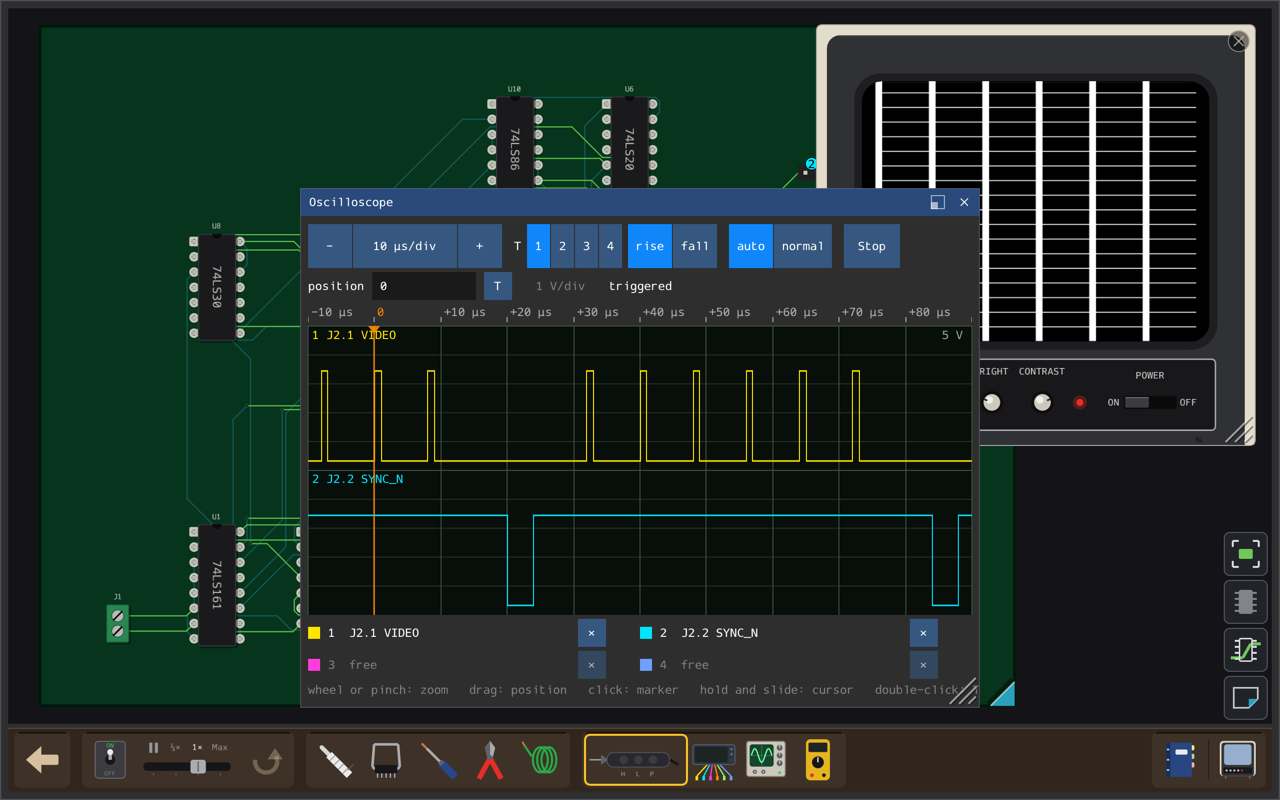
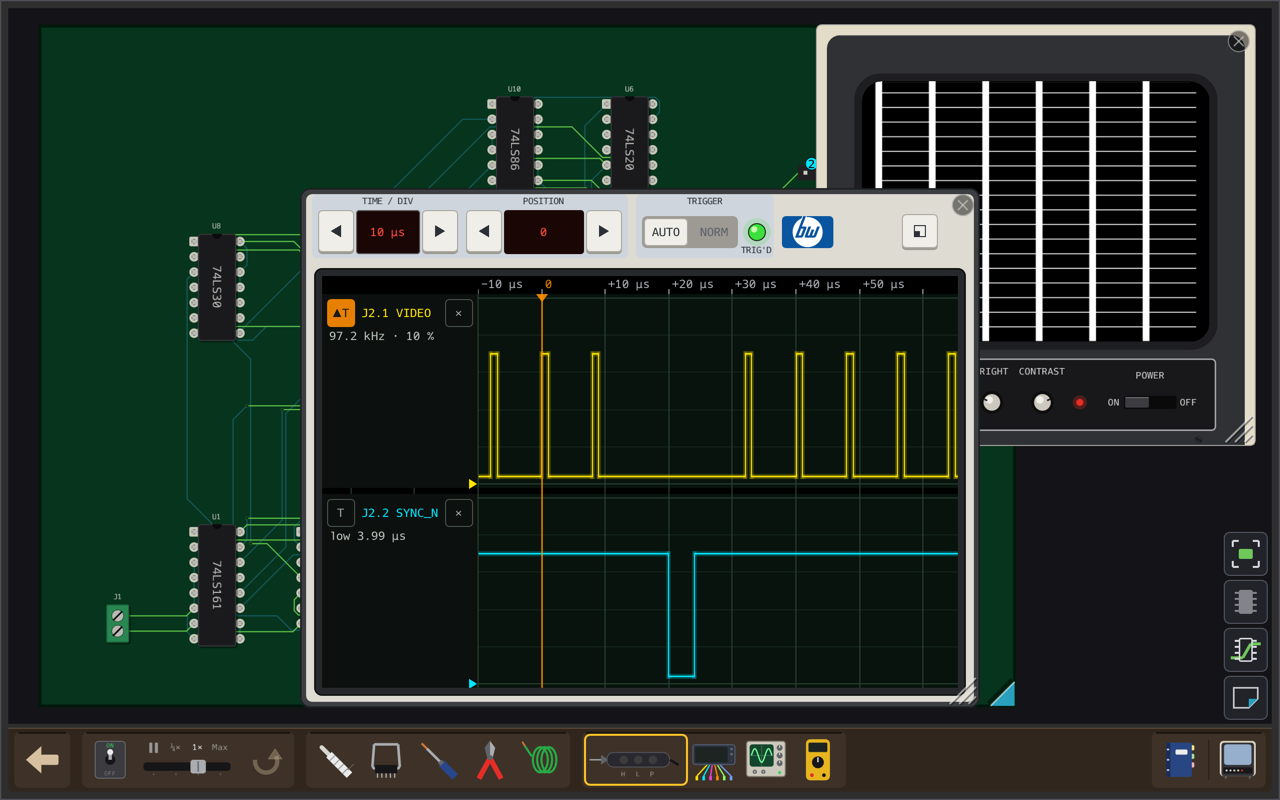
docs: P8h done, the scope's manuals by pin, GLOSSARY, recipe, README shot (P8h phase 6)
The Service Manuals' scope setups name pins, not channels; GLOSSARY's
Oscilloscope, Hook, Marker, Stepper and Equipment follow the case, and
Band is new; ADD_INSTRUMENT.md gains the drawn-case shape and the
overlap rule for controls over a canvas; README's scope picture
retaken; the P8h row done; the plan cut to its table and notes.

Checks: the full release suite (1709); the 140 at its known 0.26x with
or without four Hooks, UI 0.4 ms.

Changed region(s): [[0.2188, 0.2188, 0.7812, 0.9062]]

diff --git a/docs/p8h-oscilloscope/OSCILLOSCOPE_PLAN.md b/docs/p8h-oscilloscope/OSCILLOSCOPE_PLAN.md
@@ -2,8 +2,6 @@
 
 Spec: [OSCILLOSCOPE.md](OSCILLOSCOPE.md). Design: [OSCILLOSCOPE_DESIGN.md](OSCILLOSCOPE_DESIGN.md).
 
-Screenshots: `build/release/src/ui/bw_ui machines/010-counter/puzzles/01-dark-led.bwp --hook … --focus scope --screenshot /tmp/x.png --after 1s` (`2s` with a scripted finger), viewed. A scripted finger's window px are read off a first shot (a shot is twice the window). The debug regex never takes the BW-80's or BW-2001's cases: `DEBUG_R="^(session: (the scope|hooks)|scope (reading|layout): |time view: )"`.
-
 ## Status
 
 | Phase | Description | Commit |
@@ -12,64 +10,15 @@ Screenshots: `build/release/src/ui/bw_ui machines/010-counter/puzzles/01-dark-le
 | 2 | The bands' order; the Board's Hook numbers | `94351f1` |
 | 3 | The screen: bands, plates, labels, Trigger on the labels, cursor tag, snap | `2ee2196` |
 | 4 | The case and the strip: logo, keys, LEDs, timebase grid, presets on the case | `e639ba5` |
-| 5 | Reordering the bands by their labels | |
-| 6 | Docs, README shot, speed, full suite | |
-
-## Phase 1 — Pure: the view, the readings, the layout
-
-1. `ScopeView` and `WithView` take `lead`; `CursorTagText`; `TimebaseRows` (design §1).
-2. `src/view/scope_reading.{hpp,cpp}`: `BandReading` (design §2).
-3. `src/view/scope_layout.{hpp,cpp}`: `Box`, `LayOutScopeCase`, `ScopeBands`, `BandAt` (design §4); both in `src/view/CMakeLists.txt`.
-4. Tests: the three `time view:` cases, `tests/view/scope_reading_test.cpp`, `tests/view/scope_layout_test.cpp`, in `tests/CMakeLists.txt`.
-
-Fence: release `ctest --preset release -j -R "^(time view|scope reading|scope layout): "`; debug `ctest --preset debug -j -R "^(time view|scope reading|scope layout): "`. Commit: `view: the scope's view behind a plate, cursor tag, timebase rows, band readings and case layout (P8h phase 1)`.
-
-## Phase 2 — The bands' order
-
-1. `ScopeSetup`: `order_`, `order()`, `move()`; `hook` appends and takes the Trigger when its source is not hooked; `unhook` erases and moves the source to the top band (design §3).
-2. `HookTag::place`; `HookTagsOf` by `order()`; `BoardView` draws the place's digit (design §3).
-3. Tests: the three `session:` cases (design §3).
-
-Fence: release `ctest --preset release -j -R "^(session|scope): "`; debug `ctest --preset debug -j -R "$DEBUG_R"`; screenshots: `--hook U1.CLK,U1.QA,U1.QB` (discs 1, 2, 3), then the same with a `--tap` on `U1.QA`'s pad (the scope in focus: the tap unhooks it; discs 1 on CLK, 2 on QB). Commit: `session: the scope's bands in order, the Board's Hooks numbered by it (P8h phase 2)`.
-
-## Phase 3 — The screen
-
-1. `DrawAxisLabels(…, arrow)` (design §5).
-2. `ScopeWindow`, still in its ImGui window with its header for now: the screen's item allowing overlap, first; bands from `ScopeBands` in `order()`, gaps, six volt lines each, the time lines across, the glow; the plates (`kPlate`, opaque) with `T` (its edge a drawn triangle), name, ×, reading (`BandReading` over the visible part, cached by serial, `to` and power); the 0 V arrows at the plates' edge; `lead` through `ScopeView` / `WithView`; the Trigger on the labels (the header's source choice removed); the Marker and cursor clipped right of the plates, the cursor's tag; the mouse's snap; ×, `T`'s unhook-side effects and the settings applied after the drawing (design §5, step 7); the Hook rows, the status line, `kGestures` and `DrawOffScreenTrigger` out (design §5).
-
-Fence: release `ctest --preset release -j -R "^(time view|scope reading|scope layout|session|scope): "`, then the full release suite (`instrument_marks` is shared with the analyzer); screenshots: one Hook; three with `--marker +2us --cursor +5us` (the tag, `dt`, the values on the plates); four; a `--tap` on the middle band's × of three (two bands, the Board's discs 1, 2); the power off (a `--tap` on the Shelf's power switch); the 050 README setup; `--touch --hold` on a band (the cursor snapped to an edge); a double-click and a wheel over a plate change nothing (a `--double-tap` on a plate: the position stays); the analyzer's axis unchanged (`--clip` a pin, `--view 1us:+5us`). Commit: `ui: the scope's screen in bands with labels on it, the cursor's tag, the mouse's snap (P8h phase 3)`.
-
-## Phase 4 — The case and the strip
-
-1. `NextInstrumentSize`, `DrawSizeIcon`, `InstrumentClicked(closeZone)` (design §6); `BeginInstrument` calls the first two.
-2. `FieldLook` and `NumberField(…, look)` (design §6).
-3. `src/ui/bw_logo.{hpp,cpp}`: `DrawBwLogo`; `src/ui/scope_case.{hpp,cpp}`: the drawing (design §6); both in `src/ui/CMakeLists.txt`.
-4. `ScopeWindow`: begun as a case; the keys, LEDs, the position's `NumberField` with its look, the rocker, the lamp (from `shown_`), the badge, the size key, `CaseClose`; the timebase grid popup; Run/Stop and `stopped_` gone (design §6).
-5. The scope's minimal size 620 × 400 (`bench_places.cpp`).
-
-Fence: release `ctest --preset release -j -R "^(bench places|focus|scope|session|number pad): "`, then the full release suite (`controls` and `instrument_marks` are shared); screenshots: normal with three Hooks; minimal with four (a `--tap` on the size key); full (another); `--pop scope`; the timebase grid open (a `--tap` on the time LED); the position's pad open (a `--tap` on the position LED: the pad in the style's colours); the logo (a crop of the 2× shot); the analyzer's title bar and size button unchanged; `--window 1080:810` (a tablet's bench). The web build (`source ~/emsdk/emsdk_env.sh && cmake --preset web && cmake --build --preset web`), its page served and looked at. Commit: `ui: the scope as a drawn HP-like case, its strip of keys and the BW logo (P8h phase 4)`.
-
-## Phase 5 — Reordering
-
-1. The plate's drag (design §7): the dragged plate follows the pointer; the release moves the band.
-
-Fence: release `ctest --preset release -j -R "^(session|scope): "`; screenshots: a `--drag` of the third band's plate to the top (bands and the Board's discs reordered, colours kept); a `--tap` on a plate (nothing moves). Commit: `ui: the scope's bands reordered by dragging their labels (P8h phase 5)`.
-
-## Phase 6 — Docs and finish
-
-1. The three manual setups by pin (design §8).
-2. GLOSSARY, ADD_INSTRUMENT.md (design §8).
-3. README: `python3 -I tools/readme_shots.py scope`, the picture viewed; README_SPEC if its words changed.
-4. Speed: `machines/140-bw80` with four Hooks: 1.00×, UI under 1 ms.
-5. ARCHITECTURE's P8h row done (date, one line, links); this plan cut to the status table and the notes.
-
-Fence: the full release suite `ctest --preset release -j`; the phase 3–5 screenshots retaken once and viewed. Commit: `docs: P8h done, the scope's manuals by pin, GLOSSARY, recipe, README shot (P8h phase 6)`.
+| 5 | Reordering the bands by their labels | `3209c53` |
+| 6 | Docs, README shot, speed, full suite | (this commit) |
 
 ## Implementation notes
 
 - 2026-11-26, review (a fresh agent, the three docs against the code): 13 must-fixes, all fixed in the docs before phase 1. The screen's item allows overlap (`IsItemHovered` ignores later items otherwise: a plate's double-click would reset the position, the corner grip would be dead); ×, `T` and the drop applied after the drawing and the settings; a new Hook takes the Trigger when its source is not hooked; the readings in the existing formatters' trimmed form (`1 MHz`, `high 1 µs`) with "high" defined (One, not floating); the ◀ ▶ ▲ ▼ drawn as triangles; `NumberField` given a look that does not leak into its pad; the logo's counter filled white after the letters (`AddConcavePolyFilled` has no holes); one list of `scope_case`'s functions; the debug regex kept off the BW-80's and BW-2001's `session:` cases; the removal screenshot added; the mouse's snap left to the user (every scripted pointer is a finger); the logo checked in a crop. Taken from the suggestions: the layout pure and tested in `src/view`; the strip's widths fitted to 620 px (the words only from 719); the readings over the visible part, with the power in their cache key; the Marker and cursor clipped right of the plates, the 0 V arrows at their edge; the slop per pointer; a shared size icon; the minimum size clamped to the bench; the lamp from the Sweep shown; the zoom about the visible centre; the full suite after phases 3 and 4.
 - 2026-11-26, phase 1: as designed. The cursor's tag's `dt` unsigned when positive (`dt 3 µs`, `dt -2 µs`). The layout's strip comes to 609 px at the minimal 620; the words from 719. Checks: release and debug `^(time view|scope reading|scope layout): ` (21 cases).
-- 2026-11-26, phase 2: as designed; `unhook` of a Channel not hooked does nothing. Screenshots: the counter with three Hooks, the scope dragged off the Board (`--drag 450:202:0:420`): discs 1, 2, 3; a `--tap 436:366` on `U1.QA`'s pad unhooks it: QB's disc reads 2. Checks: release `^(session|scope): ` (72), debug `$DEBUG_R` (26).
+- 2026-11-26, phase 2: as designed; `unhook` of a Channel not hooked does nothing. Screenshots: the counter with three Hooks, the scope dragged off the Board (`--drag 450:202:0:420`): discs 1, 2, 3; a `--tap 436:366` on `U1.QA`'s pad unhooks it: QB's disc reads 2. Checks: release `^(session|scope): ` (72), debug `^(session: (the scope|hooks)|scope (reading|layout): |time view: )` (26).
 - 2026-11-26, phase 3: as designed, but the value under the cursor or Marker on a plate is its level's letter only (`1 MHz · 50 %  H`): `H 3.5 V` did not fit beside a reading in 156 px, and the reading already gives a float's or a rail's volts. The cursor's tag sits under the Marker's flag row, so the two never overlap. The header keeps the timebase, the mode, Stop and the position until phase 4; the source and edge choices left it. Readings seen: the counter's `1 MHz · 50 %`, RCO's `high 998 ns`, 050's sync `low 3.99 µs` (the gates' delays). Screenshots: one, three (Marker, cursor tag `+5 µs   dt 3 µs`, levels), four Hooks; the middle band's × (two bands); the power off (flat, no readings); a `--double-tap` on a plate with `--delay 5us` (the position stays); a finger's `--hold` (the cursor on CLK's fall at +1.5 µs); the 050 README setup; the analyzer's axis with its off-screen arrow. Checks: the full release suite (1709).
 - 2026-11-26, phase 4: as designed. The axis strip is part of the black screen. The badge's words in the UI font (no bold at hand), shown at the full size (1264 px), not at 680. `BeginInstrument` keeps its look; `NextInstrumentSize` and `DrawSizeIcon` are its old code. Screenshots: three Hooks at the normal size (strip, red LEDs, rocker, lit TRIG'D, logo, size key, case ×); full after a `--tap` on the size key (words beside the logo); minimal with four after a second tap (four bands of about 60 px, the labels fit); the timebase grid (`ns`/`µs`/`ms` rows, `1 µs` lit); the position's pad (the style's colours, the field red); the logo cropped at 64 device px; the analyzer's title bar and size button unchanged; `--window 1080:810`. Not seen: `--pop scope` (a shot draws the main window only); the web page: built (`cmake --build --preset web`), but headless Edge stops at the data download (threads and the service worker under virtual time), so its look is left to the user. Checks: the full release suite (1709).
 - 2026-11-26, phase 5: as designed; the dragged plate drawn last with an outline in its Hook's colour, clamped to the screen; an unhook in the same frame wins over a drop. Screenshots: a `--drag 386:604:0:-300` of QB's plate (QB at the top, its magenta kept, CLK still the Trigger); a `--tap` on a plate (nothing moves, its tooltip). The Board's numbers follow `order()` (phase 2), not shot again. Checks: release `^(session|scope)`.
+- 2026-11-26, phase 6: the three Service Manual setups by pin (040, 050, 060); GLOSSARY (Oscilloscope, Hook, the new Band, Marker, Stepper, Equipment's presets); ADD_INSTRUMENT.md (an instrument as a drawn case; controls over a canvas: `SetNextItemAllowOverlap`, changes after the drawing); `docs/readme/scope.png` regenerated and viewed (050: VIDEO `97.2 kHz · 10 %`, SYNC_N `low 3.99 µs`), README_SPEC's words still true; ARCHITECTURE's row. Speed: the 140 runs 0.26× with four Hooks and 0.26× without (its known limit on this host, PERFORMANCE.md: 0.265×; the plan's 1.00× was the wrong mark for it), UI 0.4 ms; the counter 1.00× with four Hooks, UI 0.3 ms. Left to the user: the web page's look, the mouse's snap, the keys' and the drag's feel. Checks: the full release suite.

diff --git a/docs/GLOSSARY.md b/docs/GLOSSARY.md
@@ -287,7 +287,7 @@ The strip along the bottom of `bw_ui`'s window (P6c, regrouped in P6o), each gro
 The Shelf's last item (P6o): the Machine's own devices, its TV, keyboard and knob box, drawn together, one cell each, each lit while out (a grayed monitor on a Machine with none). A click brings them all out (any away), to the front (some behind), or puts them all away (all out in front); a double-click pops them all out to desktop windows, or all back in (where there are none, the web build, the slot's first object fills the bench, and goes back: P8f). Each object keeps its own `×`.
 
 **Equipment**:
-The objects brought out from the Shelf or put away: TV, keyboard, Logic Analyzer, Oscilloscope, the manuals binder, a paddle's knob. One that is out is drawn lit on the Shelf. Each comes out first at its default place on the bench, then where and as large as the player left it for the bench (P6d; no way back to the default place, P6o); a double-click on its shelf drawing (the Machine Slot's for the TV, keyboard and knob box), or on its own drag zone (an Instrument's title bar, a case's body off its controls, the binder's cover), sends it to a desktop window of its own, beside the main one, drawn the same, and a second double-click brings it back where it was on the bench (popped out, P6j, P6o; `--pop` at start); the Instruments have two presets, minimal and normal, from a button in their title bar, and on the bench a third, full: the bench filled, the next press back to minimal where the Instrument was (P8f); every object has a drawn grip in its bottom right corner (28 px, answering within 44) and is resized by a Finger's pinch too, but the keyboards, where two Fingers type; an object's first size is shrunk to fit a small bench; where there are no desktop windows (the web build) a double-click fills the bench with the object instead, and a second puts it back; the TV, keyboard, knob and manuals binder are drawn cases with no title bar, dragged by their body and put away by the × on the case; the cases keep their proportions, but the binder, resized freely (P6o). The TV (P6f) is a monitor in a small 1970s set's look: `H-POS` and `V-POS` move the picture, `BRIGHT` and `CONTRAST` set its tone, its own `POWER` switch and red lamp; it shows what a real monitor shows (the line's sync and back porch and the vertical retrace hidden), and an unlabelled trimmer below the strip shows the whole frame (underscan); a round loupe follows the mouse over the picture, its pixels six times larger and sharp, the cursor hidden (2026-11-22); the controls keep their turns for the bench. The binder (P6e) has four dividers (User Manual, Service Manual, Datasheets, Repairs), and a fifth, Contents, once a memory chip's window is clicked (P6p), and a sixth, Give up, on a Procedural Puzzle's bench only (P8d): its page asks, then shows the Fault's `fault` line for the rest of the bench, copied by a click; it comes out at the User Manual and turns to a chip's datasheet when a chip is selected. Its tabs keep 50 px apart, closer in a binder too short for them all.
+The objects brought out from the Shelf or put away: TV, keyboard, Logic Analyzer, Oscilloscope, the manuals binder, a paddle's knob. One that is out is drawn lit on the Shelf. Each comes out first at its default place on the bench, then where and as large as the player left it for the bench (P6d; no way back to the default place, P6o); a double-click on its shelf drawing (the Machine Slot's for the TV, keyboard and knob box), or on its own drag zone (the Logic Analyzer's title bar, a case's body off its controls (the Oscilloscope's since P8h), the binder's cover), sends it to a desktop window of its own, beside the main one, drawn the same, and a second double-click brings it back where it was on the bench (popped out, P6j, P6o; `--pop` at start); the Instruments have two presets, minimal and normal, from a button in the Logic Analyzer's title bar and on the Oscilloscope's case (P8h), and on the bench a third, full: the bench filled, the next press back to minimal where the Instrument was (P8f); every object has a drawn grip in its bottom right corner (28 px, answering within 44) and is resized by a Finger's pinch too, but the keyboards, where two Fingers type; an object's first size is shrunk to fit a small bench; where there are no desktop windows (the web build) a double-click fills the bench with the object instead, and a second puts it back; the TV, keyboard, knob and manuals binder are drawn cases with no title bar, dragged by their body and put away by the × on the case; the cases keep their proportions, but the binder, resized freely (P6o). The TV (P6f) is a monitor in a small 1970s set's look: `H-POS` and `V-POS` move the picture, `BRIGHT` and `CONTRAST` set its tone, its own `POWER` switch and red lamp; it shows what a real monitor shows (the line's sync and back porch and the vertical retrace hidden), and an unlabelled trimmer below the strip shows the whole frame (underscan); a round loupe follows the mouse over the picture, its pixels six times larger and sharp, the cursor hidden (2026-11-22); the controls keep their turns for the bench. The binder (P6e) has four dividers (User Manual, Service Manual, Datasheets, Repairs), and a fifth, Contents, once a memory chip's window is clicked (P6p), and a sixth, Give up, on a Procedural Puzzle's bench only (P8d): its page asks, then shows the Fault's `fault` line for the rest of the bench, copied by a click; it comes out at the User Manual and turns to a chip's datasheet when a chip is selected. Its tabs keep 50 px apart, closer in a binder too short for them all.
 _Avoid_: instrument (for the TV, keyboard or manuals)
 
 **Focus**:
@@ -297,7 +297,7 @@ What a click on a pin does: exactly one Board tool or Instrument owns it, shown 
 An Instrument showing the Logic Value and activity of one Net.
 
 **Oscilloscope**:
-An Instrument showing a few Nets over time at fine timing resolution.
+An Instrument showing a few Nets over time at fine timing resolution. Drawn as an HP-like case with no title bar (P8h): a strip of keys along its top (TIME / DIV and POSITION round red LED windows, the timebase's opening a grid by unit; the AUTO | NORM rocker and the TRIG'D lamp; the Bodge Wire logo; the size key), its screen in a bezel under it, one Band per Hook, each named on its plate; dragged by its body, resized freely.
 _Avoid_: Scope (fine in speech, not in docs)
 
 **Logic Analyzer**:
@@ -317,7 +317,7 @@ A Logic Analyzer lead attached to one pad; it feeds one Channel.
 _Avoid_: Probe (that is the Logic Probe)
 
 **Hook**:
-An Oscilloscope lead attached to one pad; it feeds one Channel.
+An Oscilloscope lead attached to one pad; it feeds one Channel and has its Band. On the Board a disc in its Channel's colour, numbered by its Band's place on the screen (P8h: 1 the top one; renumbered when a Band goes or moves).
 _Avoid_: Probe (that is the Logic Probe)
 
 **Test Point**:
@@ -329,6 +329,10 @@ One of the two Multimeter tips, on any copper: the red one held while a press la
 **Sweep**:
 One pass of the Oscilloscope across its screen, starting at a Trigger.
 
+**Band**:
+One Hook's strip of the Oscilloscope's screen (P8h), with its own 0 to 5 V scale, black between Bands. A plate over its left end names it: its `T` (lit on the Trigger's source, its edge an arrow; a click makes it the source, or flips the edge), the pin, its ×, and its reading (`1 MHz · 50 %`, `low 4 µs`, `H`). The Bands share the screen top to bottom in the order hooked; a plate dragged up or down moves its Band.
+_Avoid_: lane (that is the Logic Analyzer's row)
+
 **Capture**:
 What a Logic Analyzer recorded around one Trigger: every Channel over the same sample points. Not a Vetting's capture time (a simulated time a Vetting Script names: what a Machine shows there is a `Shown`).
 
@@ -337,7 +341,7 @@ Logic Analyzer Channels read and triggered as one Bus value, shown in hex, such 
 _Avoid_: Bus (that is the circuit's group of Nets)
 
 **Marker**:
-A time picked with a click on an Oscilloscope or Logic Analyzer screen, from which the cursor's `dt` is measured. It carries a flag at its top, 28 × 20 px: a click on the flag clears it, as a right-click on the screen does (P8f). A Finger's Marker lands on an edge of the row or band it is on when one lies within 12 px.
+A time picked with a click on an Oscilloscope or Logic Analyzer screen, from which the cursor's `dt` is measured. It carries a flag at its top, 28 × 20 px: a click on the flag clears it, as a right-click on the screen does (P8f). A Finger's Marker lands on an edge of the row or Band it is on when one lies within 12 px; on the Oscilloscope the mouse's too, and its cursor (P8h), the cursor's tag there showing its time and the `dt`.
 
 **Pencil Mark**:
 A grey dot, cross or check the player puts on the Board with the grease pencil (a china marker), a note for the session (P6h), on the Board only (P6o): a click on bare Board or a part puts a dot, a click on a mark turns it to a check, a cross, then none; a Shift-click or right-click clears it. Drawn whatever the tool, layer or look; one on a chip's body leaves with the chip when it is swapped; nothing is saved.
@@ -367,7 +371,7 @@ _Avoid_: Magnifier, zoom (that is the Board's own)
 The slide switch marked HOLD on a keyboard's case (P8f). While it is on, a click on a key holds it down until it is clicked again, as a right-click does: a chord for a Finger, which has one button.
 
 **Stepper**:
-A control for one value out of a list (P8f): −, the value, +, the two buttons 44 px square; + is always the finer step, and a click on the value opens the whole list. It replaces a dropdown: the Logic Analyzer's sample period, the Oscilloscope's timebase, the Contents page's width.
+A control for one value out of a list (P8f): −, the value, +, the two buttons 44 px square; + is always the finer step, and a click on the value opens the whole list. It replaces a dropdown: the Logic Analyzer's sample period and its view, the Contents page's width (the Oscilloscope's timebase is its case's keys since P8h).
 
 **Number Pad**:
 The keys that open beside a number's field when it is clicked (P8f): the hex digits, a trigger pattern's `X`, or a duration's digits and units, with `<` to take one back and OK. The PC's keys type into it as well. It replaces a text field, which a Finger cannot type in: the web build has no on-screen keyboard.

diff --git a/docs/recipes/ADD_INSTRUMENT.md b/docs/recipes/ADD_INSTRUMENT.md
@@ -14,7 +14,7 @@ Reference commits (P3d, multimeter + scope): `ecb3915` placement + volts, `53327
 | Session | `src/session/<x>_setup.{hpp,cpp}`, `src/session/session.{hpp,cpp}` | a setup class (as `ProbeSetup`, `MeterSetup`, `ScopeSetup`, `AnalyzerSetup`) owns the placement (tip / lead / clip / hook: Layer + Point) and settings across rebuilds; `bind(consumer)` at each build finds the Nets (`build_->machine->probeNet(...)`, `PinNet`) and configures the consumer; it is private, with the Session a friend. The Session adds the consumer to `Live` and `makeLive()`, the setup's `bind` to `bindBuild()` and an accessor (`session.scope()`). Tests in `tests/session/session_test.cpp` |
 | Placement rule | `src/view/board_scene.{hpp,cpp}` | `AcceptsLead`/`LeadLabel`: held tips take any copper, attached clips/hooks take pads only; refusal says why |
 | Focus | `src/view/focus.{hpp,cpp}`, `src/view/bench_places.hpp`, `src/ui/shelf.cpp`, `src/ui/shelf_drawings.cpp`, `src/ui/tool_click.cpp` | an `Owner`, and the `BenchObject` of its window, which `ObjectOf` gives (`Focus` keeps whether it is out), tested in `tests/view/focus_test.cpp`; an `Item` with its vector drawing (lit when out) on the shelf (no key: P6o), with its tray and hint in `shelf.cpp`'s `kItems` and its `OwnerOf` and `WindowOf` cases; the click case in `ToolClick`'s switch on the owner, with `refuse(reason)` for a click it cannot act on (the shelf and the Board both say it, P6c). A Board tool (the grease pencil, P6h) is the same less the instrument's parts: taken with `Focus::take`, no `BenchObject`, no window |
-| Window | `src/ui/<x>_window.{hpp,cpp}`, `src/ui/CMakeLists.txt`, `src/ui/main.cpp` | ImGui window, `bool draw(bool& open, Session&)` called from main's `instrument(owner, window)`: `BeginInstrument(name, open, BenchObject)` begins it under its name constant (`k<X>WindowName`, for the shelf's `BringToFront`/`InFront`), at its default place and normal size the first time it comes out, then where the player left it, with the minimal / normal button in its title bar (a `BenchObject` with its place and two sizes in `src/view/bench_places.cpp`, tested in `tests/view/bench_places_test.cpp`; P6d), `InstrumentClicked` returns a click (it then takes the focus), closing it puts it away; `PlaceNext` also keeps it on the bench or, popped out, gives it its own desktop window (a double-click on its shelf drawing, `TogglePop`, `--pop`, P6j, P6o); `PopOnDoubleClick(object)` last before its `End` does the same for a double-click on its title bar; no lead button, no gold (the gold is on its shelf drawing). A window over time takes its view, zoom, pan, grid and status line from `src/view/time_view.hpp` (tested there) and draws Trigger, marker, grid and axis with `src/ui/instrument_marks.hpp`, so it looks and moves like the scope and analyzer; no key acts in it (P6o: the keys go to the Machine), a right-click clears its marker |
+| Window | `src/ui/<x>_window.{hpp,cpp}`, `src/ui/CMakeLists.txt`, `src/ui/main.cpp` | ImGui window, `bool draw(bool& open, Session&)` called from main's `instrument(owner, window)`: `BeginInstrument(name, open, BenchObject)` begins it under its name constant (`k<X>WindowName`, for the shelf's `BringToFront`/`InFront`), at its default place and normal size the first time it comes out, then where the player left it, with the minimal / normal button in its title bar (a `BenchObject` with its place and two sizes in `src/view/bench_places.cpp`, tested in `tests/view/bench_places_test.cpp`; P6d), `InstrumentClicked` returns a click (it then takes the focus), closing it puts it away; `PlaceNext` also keeps it on the bench or, popped out, gives it its own desktop window (a double-click on its shelf drawing, `TogglePop`, `--pop`, P6j, P6o); `PopOnDoubleClick(object)` last before its `End` does the same for a double-click on its title bar; no lead button, no gold (the gold is on its shelf drawing). An instrument may instead be a drawn case with no title bar (the Oscilloscope, P8h: `src/ui/scope_window.cpp`, its drawing `scope_case`, its pure layout `view/scope_layout`): begun as the TV is (`PlaceNext`, size constraints, `NoTitleBar`), its size preset a key of its own (`NextInstrumentSize`, `DrawSizeIcon`), `InstrumentClicked(closeZone)` for `CaseClose`'s corner. A window over time takes its view, zoom, pan, grid and status line from `src/view/time_view.hpp` (tested there) and draws Trigger, marker, grid and axis with `src/ui/instrument_marks.hpp`, so it looks and moves like the scope and analyzer; no key acts in it (P6o: the keys go to the Machine), a right-click clears its marker |
 | CLI | `src/view/bench_options.cpp`, `src/ui/bench_setup.cpp` | `bw_ui` flag to place it at start: a row of the options table (parsed and tested without the UI, `tests/view/bench_options_test.cpp`), checked against the Machine and applied to the Session in `ApplyBenchOptions` (`--probe`, `--clip`, `--hook`, `--meter`, whose two pins `A,B` clip the black lead on A and hold the red one on B with the power off; the clips and hooks bring the window out without the focus, `--meter` takes the meter) so screenshots can show it; `--focus NAME` gives it the focus (the gold); `--sample`, `--view`, `--marker`, `--cursor` set what a screenshot of a window over time shows; `--manual user|service|datasheet|repairs` brings the binder out at a divider (`datasheet` with `--probe` a chip's pinout), `--debug` the run's numbers |
 
 ## Gotchas
@@ -34,5 +34,6 @@ Reference commits (P3d, multimeter + scope): `ecb3915` placement + volts, `53327
 - The agent can't see the live screen: use `bw_ui … --screenshot X.png --after 1s` (release build) and view the PNG. The analyzer opens at its first view (10 sample points per division about the Trigger: bus values readable at 100 ns); `--view 1us:+5us`, `--marker +2us`, `--cursor +3.7us` set the rest. At `2us` a 1 µs bus cycle is too narrow for its text in the default window.
 - Window input: read pan and zoom once per frame before drawing anything that depends on the view (lanes, but also an axis or overview above them: reserve their rows, draw them after). A canvas over time reads its gestures with `TimeCanvas::read` (`src/ui/gestures`), as the scope and the analyzer do, not from ImGui itself: it takes the wheel so zooming never scrolls the window (P3c's intermittent navigation bugs), steps a fractional trackpad wheel on whole notches, and gives a drag from its press (one that rounds, as the scope's delay to tenths of a division, would never move if added up frame by frame). A round knob reads `ReadKnob`. `read(width, divisions, markerX, top, vertical)` (P8f): `markerX` and `top` make a click on the Marker's flag clear it; `vertical` is for a canvas whose rows scroll (a drag then pans or scrolls, by its first move: `scrollY`); `scrub` is a finger's hold, where the cursor goes and stays; a finger's Marker lands on an edge with `SnapToEdge` (`src/view/time_view.hpp`).
 - The window's controls come from `src/ui/controls.hpp` (P8f), the same for the mouse and a finger: `Stepper` for a value out of a list, `Choice` or `ChoicePopup` for a few choices, `NumberField` for a number; no `Combo`, slider or `InputText`. Every control is at least `kControl` (28 px) high; a line that holds a `Stepper` has all of its controls `kBig` (44 px) high, its labels drawn by `BigText`. Nothing may need a hover, a right-click or a modifier alone: give it a control, and name the control in the hint.
+- Controls over a canvas (the scope's plates over its screen, P8h): `IsItemHovered` tests an item's own rectangle only, so the canvas keeps its hover, wheel and double-click under them unless it allows overlap. Submit the canvas's item first with `ImGui::SetNextItemAllowOverlap()`; every item submitted after it over it (and `CornerGrip`, last) then takes the hover from it. Apply what changes the bands (an unhook, a move) after the drawing and after the settings are written back, or the frame draws a gone Hook and its copy of the settings undoes what the unhook changed.
 - The window ends with `PopOnDoubleClick`, `CornerGrip` and `PinchResize(taken)`, `taken` while two fingers are the time screen's (they zoom it). A list that scrolls inside it is a child with a `DragScroll` (`update(taken)`, `taken` while the canvas has the drag).
 - Draw long Captures from runs (`CaptureRuns`), jumping sub-pixel runs by binary search: per-point loops over 65 536 points × 32 lanes blow the UI budget.

diff --git a/docs/ARCHITECTURE.md b/docs/ARCHITECTURE.md
@@ -284,7 +284,7 @@ Custom machines mimic real ones; paper-check the model against the real schemati
 | — | Architecture review refactors | mostly done (2026-11-23): the study of 2026-11-23 and its plan, 23 items in four groups; A, B and C done (some narrowed, with the reasons), D21 done, D23 started; D19 tried and not kept (2–5 % slower), D20 waits for the user (every Puzzle would start differently), D22 not needed yet; the commits reviewed 2026-11-24 and the misses fixed (C10 finished, among them). Session 1,069 → 361 lines, `ui/main.cpp` 1,820 → 1,027, `RunWindow` complexity 244 → 157, exact clones 1.55 % → 1.1 %. [ARCHITECTURE_REVIEW.md](architecture-review/ARCHITECTURE_REVIEW.md) |
 | P8f | Touch on tablets | done (2026-11-25; checked by the user on an iPad the same day, "it works very well", a few rough edges left to list): `bw_ui` played with fingers on a tablet in landscape, the web build first; no phone. One interface for the mouse and the finger, which differs only in its input: a pinch and two fingers zoom, pan, scroll and resize; a hold shows a loupe on the Board or places a time screen's cursor; a repair's first tap lights its target, the second does it. For both: view buttons and Hold switches for what Tab, Option and the right-click did, steppers and a number pad for the dropdowns and text fields, controls of 28 and 44 px, pages and the Launcher's lanes dragged, objects with a corner grip that can fill the bench, a narrower Shelf at 1080 px. [TOUCH.md](p8f-touch/TOUCH.md), [design](p8f-touch/TOUCH_DESIGN.md), [plan](p8f-touch/TOUCH_PLAN.md) |
 | P8g | Multimeter redesign | done (2026-11-25): the Multimeter held like the Logic Probe, no window (the user grilled first). Pressed on copper, its LCD rises above its Shelf drawing and reads the red lead until the press ends; the power switch is its mode: volts while powered (dashes while paused), continuity while off, where a click clips the black lead (a click on the clip or the power going on lifts it) and the LCD shows `bEEP` lit green or `----`. A pin link held in a manual measures; a finger reads through the loupe. 110 with the meter held: 1.00×, UI 0.2 ms. [MULTIMETER.md](p8g-multimeter/MULTIMETER.md), [design](p8g-multimeter/MULTIMETER_DESIGN.md), [plan](p8g-multimeter/MULTIMETER_PLAN.md) |
-| P8h | Oscilloscope redesign | wanted (2026-11-26): the scope redesigned; what changes and how to be settled with the user first |
+| P8h | Oscilloscope redesign | done (2026-11-26): the scope as an HP-like case by Bodge Wire, its screen in one band per Hook named on a plate (pin, reading, Trigger, ×), bands reordered by their plates, a strip of keys with red LEDs for the timebase and position, Run/Stop gone (the user grilled first). [OSCILLOSCOPE.md](p8h-oscilloscope/OSCILLOSCOPE.md), [design](p8h-oscilloscope/OSCILLOSCOPE_DESIGN.md), [plan](p8h-oscilloscope/OSCILLOSCOPE_PLAN.md) |
 | P9 | Freezer | wanted, but on top of a finished game, not before (decided 2026-11-15): |
 | — | Kernel: oscillator lane | potential (P5z, 2026-11-16; [PERFORMANCE.md](PERFORMANCE.md#small-and-exact)): a fixed-period clock's self-wake kept out of the general event queue; estimated 3–6 % on the BW-2001 and BW-80 |
 | — | Kernel: event apply trimmed | potential (P5z; [PERFORMANCE.md](PERFORMANCE.md#small-and-exact)): `driveChanged` and the event apply's bookkeeping (generation, pending); 1–3 %, lines P5b found hard to move |

diff --git a/machines/060-bouncing-ball/manuals/service.md b/machines/060-bouncing-ball/manuals/service.md
@@ -70,7 +70,7 @@ The logic analyzer and the oscilloscope show what the probe cannot: when each pu
 | Setup | A working board shows |
 |---|---|
 | A line, on the analyzer. Clip `U6.2Y` and trigger on its falling edge. Clip also `U9.6Y`, `U9.2Y`, `U11.1Q` and `U11.2Q`. Sample every 100 ns, view at 20 µs a division | `U6.2Y` is low for 4 µs, every 64 µs. `U11.1Q` is the same pulse, a moment later. `U9.6Y` is high for 16 µs around it: the dark edge. `U9.2Y` is a short spike at the end of that edge. `U11.2Q` shows short pulses between the dark edges: one at each side wall and, on the lines of a dash, one for the net |
-| A line, on the oscilloscope. Hook `U11.1Q` on channel 1 and `U11.2Q` on channel 2. Trigger on channel 1, rising edge, at 10 µs a division | Channel 1: a sync pulse low for 4 µs, every 64 µs. Channel 2: a 2 µs pulse for the left wall, about 8 µs after the sync ends. A 2 µs pulse for the right wall, about 46 µs later. On some lines, 1 µs pulses between them: the net in the middle, and the ball on the lines it covers |
+| A line, on the oscilloscope. Hook `U11.1Q`, then `U11.2Q`. Trigger on `U11.1Q`, rising, at 10 µs a division | `U11.1Q`: a sync pulse low for 4 µs, every 64 µs. `U11.2Q`: a 2 µs pulse for the left wall, about 8 µs after the sync ends. A 2 µs pulse for the right wall, about 46 µs later. On some lines, 1 µs pulses between them: the net in the middle, and the ball on the lines it covers |
 | A picture, on the analyzer. Clip `U8.1Y` and trigger on its falling edge. Clip also `U10.4Y`, `U5.QA`, `U17.1Y`, `U24.2Y`, `U9.3Y` and `U19.RCO`. Sample every 1 µs, view at 2 ms a division | `U8.1Y` is low for a quarter of a millisecond, every 20 ms. `U10.4Y`, the frame sync, is low for a quarter of a millisecond too, about 1.8 ms before the trigger. `U5.QA` is high for the last 3.5 ms before it. `U17.1Y` is a short high pulse as `U8.1Y` falls. `U24.2Y` is a short low pulse once a picture, and `U9.3Y` is high for half a millisecond just after it: the ball's 8 lines. That place moves a little each picture, as the ball goes up or down. `U19.RCO` pulses on every line |
 | The ball, on the analyzer. Clip `U9.3Y` and trigger on its rising edge. Clip also `U19.RCO`, `U24.3Y` and `U11.2Q`. Sample every 100 ns, view at 100 µs a division | `U9.3Y` is high for 8 lines, about half a millisecond. `U19.RCO` pulses on every line, before, during and after. `U24.3Y` pulses low on the 8 lines only: the ball |
 

diff --git a/machines/050-test-pattern/manuals/service.md b/machines/050-test-pattern/manuals/service.md
@@ -47,7 +47,7 @@ The logic analyzer and the oscilloscope show what the probe cannot: when each pu
 | Setup | A working board shows |
 |---|---|
 | A line, on the analyzer. Clip `U6.1Y` and trigger on its falling edge. Clip also `U1.QA`, `U1.QB`, `U1.QC`, `U1.QD`, `U2.QA`, `U2.QB`, `U6.2Y` and `U14.1Q`. Sample every 100 ns, view at 10 µs a division | The dot counter: each of `H0` to `H5` changes half as often as the one before. `U6.1Y` is low for one dot, every 64 µs, just as `H0`–`H5` are all high. `U6.2Y` is low for 4 µs, ending 7 µs before it. `U14.1Q` is the same pulse, one dot later |
-| A line, on the oscilloscope. Hook `U14.1Q` on channel 1 and `U14.2Q` on channel 2. Trigger on channel 1, rising edge, at 10 µs a division | Channel 1: a sync pulse low for 4 µs, every 64 µs. Channel 2, on most lines: six short pulses, one every 8 µs, the first 8 µs after the sync ends. On a grid line, channel 2 stays high for 48 µs instead. In the dark border at the bottom it stays low |
+| A line, on the oscilloscope. Hook `U14.1Q`, then `U14.2Q`. Trigger on `U14.1Q`, rising, at 10 µs a division | `U14.1Q`: a sync pulse low for 4 µs, every 64 µs. `U14.2Q`, on most lines: six short pulses, one every 8 µs, the first 8 µs after the sync ends. On a grid line, `U14.2Q` stays high for 48 µs instead. In the dark border at the bottom it stays low |
 | A frame, on the analyzer. Clip `U8.Y` and trigger on its falling edge. Clip also `U3.QA`, `U5.QA`, `U11.2Y` and `U14.1Q`. Sample every 10 µs, view at 2 ms a division | `U8.Y` is low for four lines, a quarter of a millisecond. During those lines `U14.1Q` turns over: mostly low, with short high notches. `U5.QA` goes high about 2 ms before the trigger and drops about 1.5 ms after it: the last 56 lines. `U11.2Y`, the dark border at the bottom, goes high with the trigger and drops with `U5.QA`. `U3.QA` changes at every line throughout |
 | The supply, on the meter. Red lead on any chip's `VCC` pin | 5.00 V |
 

diff --git a/machines/040-stopwatch/manuals/service.md b/machines/040-stopwatch/manuals/service.md
@@ -45,7 +45,7 @@ What the logic probe shows on a working board. **P** is the pulse lamp: it stays
 | `U12.1Y` | `GCLK` | P lit while running. H, steady, while stopped |
 | `U12.2Y`, `U1.R01` (the same on every counter's R01 and R02 pins) | `RESET` | L; H while RESET is held |
 | `U1.QD`, `U2.QD`, `U3.QD`, `U4.QD` | `F100K`, `F10K`, `F1K`, `F100` | P lit while running; no P while stopped |
-| `U4.QD`, `U7.QA`, `U7.QD`, `U6.QA` | `F100`, `H0`, `H3`, `T0` | Hook all four on the oscilloscope, at 10 ms a division, trigger on channel 1 rising, while running. `F100` is a short high pulse every 10 ms. `H0` changes at each of its falls. `H3` is high for 20 ms in every 100 ms. When `H3` falls, `T0` changes |
+| `U4.QD`, `U7.QA`, `U7.QD`, `U6.QA` | `F100`, `H0`, `H3`, `T0` | Hook all four on the oscilloscope, at 10 ms a division, trigger on `U4.QD` rising, while running. `F100` is a short high pulse every 10 ms. `H0` changes at each of its falls. `H3` is high for 20 ms in every 100 ms. When `H3` falls, `T0` changes |
 | `U6.QD` | `T3` | while running: H for two tenths of every second (at .8 and .9), L the rest; P flashes at each change |
 | `U5.QA` | `S0` | while running: H for one second, L for the next; P flashes at each change |
 | `U5.QD` | `S3` | while running: H only at 8 and 9 seconds, L the rest |
